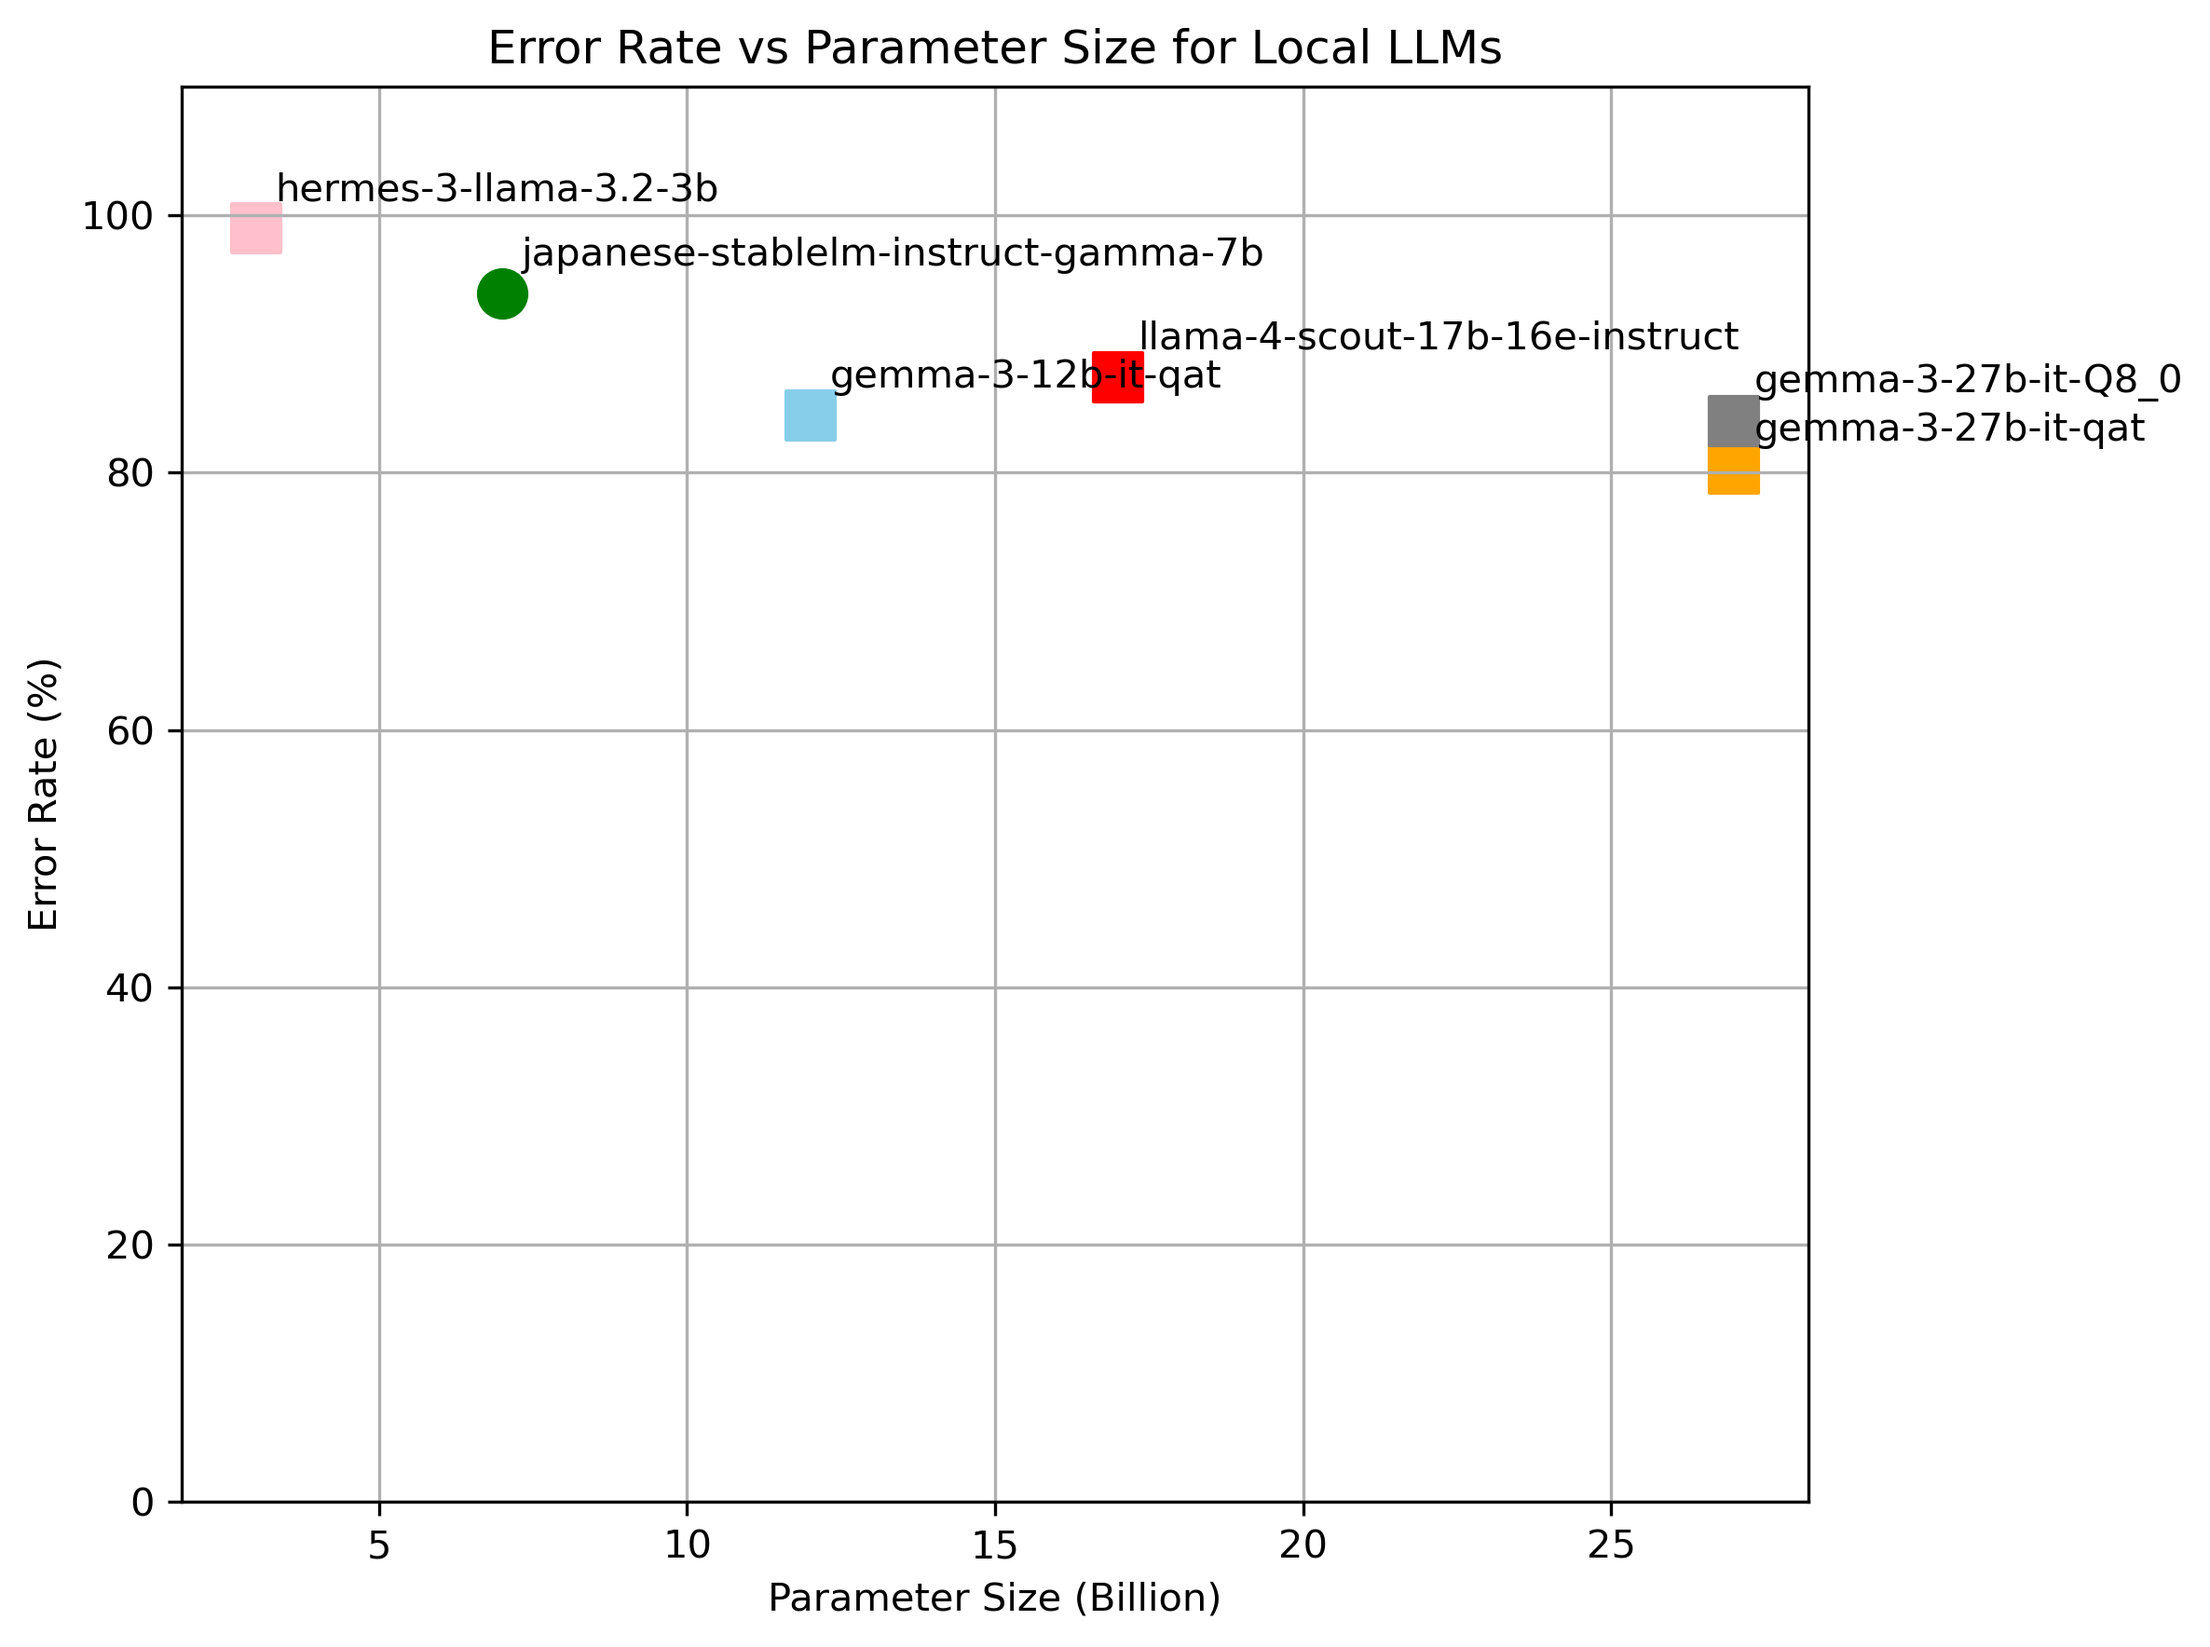
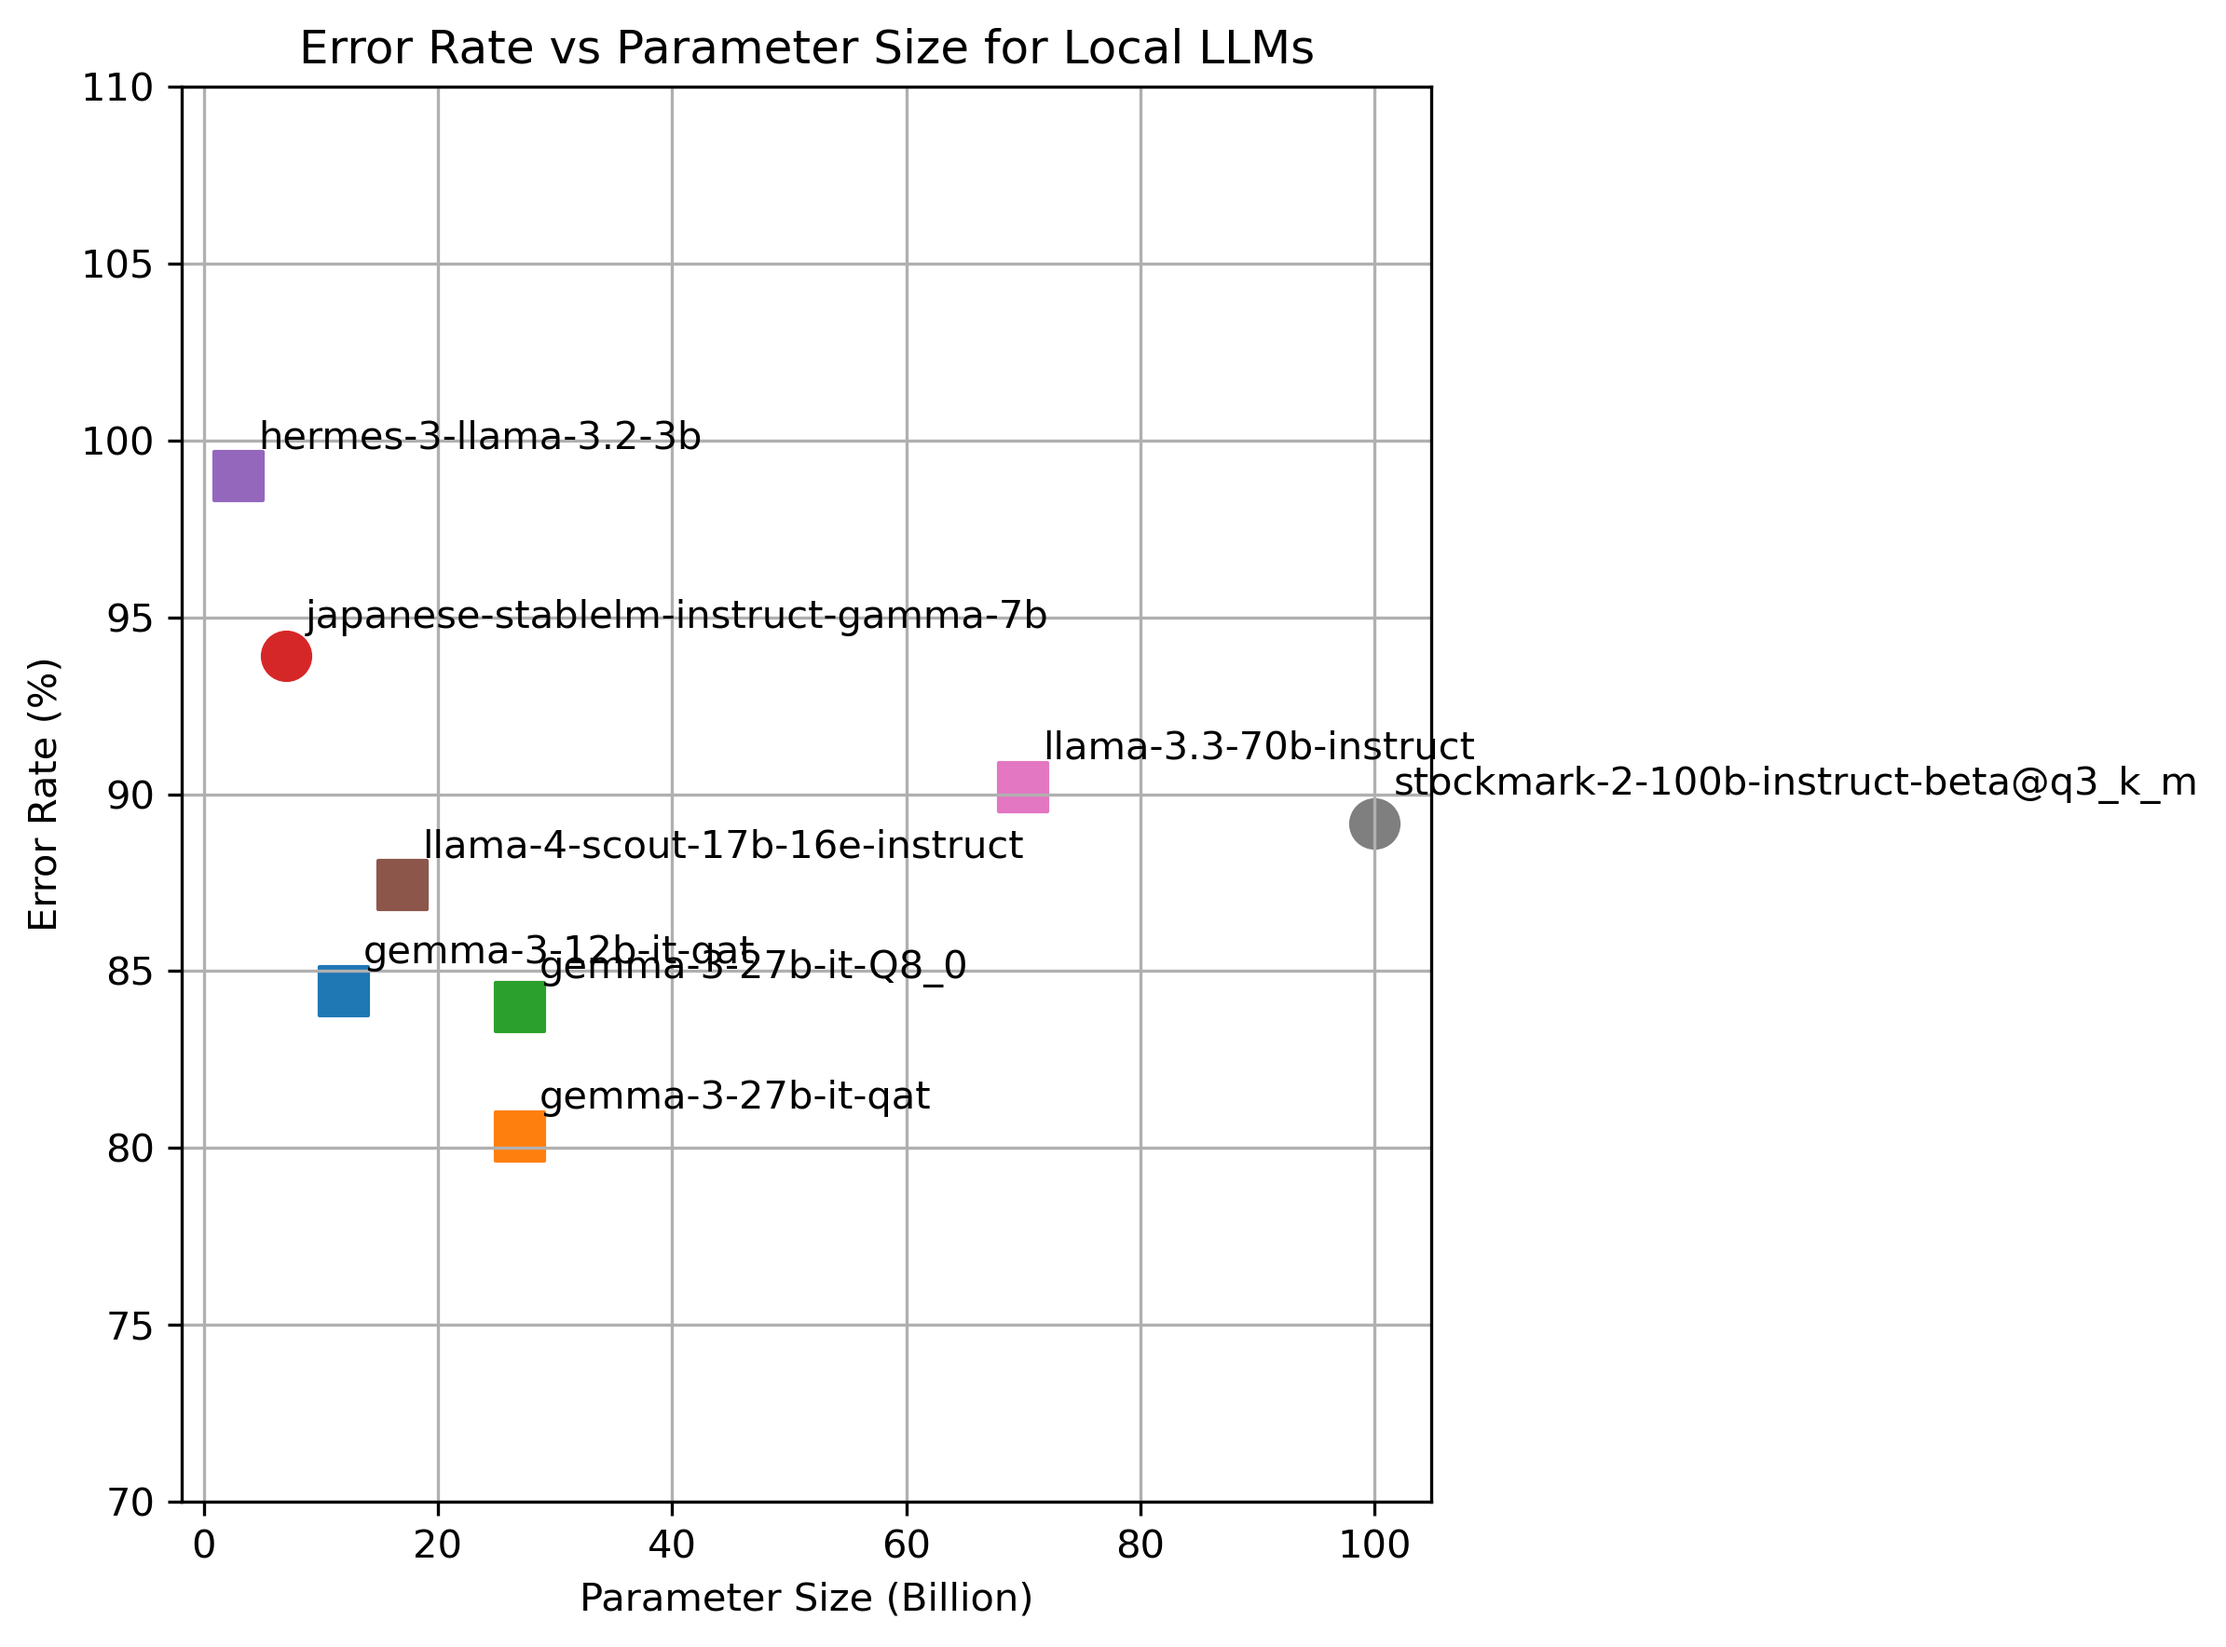
ローカルLLMの計測結果まとめを追記。

diff --git a/benchmark/plot_errorrate_vs_paramsize.py b/benchmark/plot_errorrate_vs_paramsize.py
@@ -19,6 +19,7 @@ modules = [
     'hermes-3-llama-3.2-3b',
     'llama-4-scout-17b-16e-instruct',
     'llama-3.3-70b-instruct',
+    'stockmark-2-100b-instruct-beta@q3_k_m'
 ]
 # エラー率 (mean CER)
 error_rates = [
@@ -29,6 +30,7 @@ error_rates = [
     0.989908,
     0.874311,
     0.902066,
+    0.891659,
 ]
 # パラメータ数 (ビリオン単位)
 param_sizes = [
@@ -39,6 +41,7 @@ param_sizes = [
     3,
     17,
     70,
+    100,
 ]
 markers = [
     's',
@@ -48,10 +51,20 @@ markers = [
     's',
     's',
     's',
+    'o',
 ]
 
 # カラー設定 (モデル数に合わせて調整)
-base_colors = ['skyblue', 'orange', 'gray', 'green', 'pink', 'red']
+base_colors = [
+    'tab:blue',    # 青
+    'tab:orange',  # オレンジ
+    'tab:green',   # 緑
+    'tab:red',     # 赤
+    'tab:purple',  # 紫
+    'tab:brown',   # 茶
+    'tab:pink',    # ピンク
+    'tab:gray',    # グレー
+]
 colors = base_colors[:len(modules)]
 
 plt.figure(figsize=(8, 6))
@@ -69,8 +82,8 @@ plt.xlabel('Parameter Size (Billion)')
 plt.ylabel('Error Rate (%)')
 plt.title('Error Rate vs Parameter Size for Local LLMs')
 plt.grid(True)
-# y 軸を 0%～110% の範囲に設定
-plt.ylim(0, 110)
+# y 軸を 70%～110% の範囲に設定
+plt.ylim(70, 110)
 plt.margins(x=0.05)
 plt.tight_layout()
 

diff --git a/benchmark/README.md b/benchmark/README.md
@@ -111,10 +111,17 @@ Sumibi のユーザビリティを左右する主要因として、以下の3つ
    ```bash
    make plots
    ```
-## ローカルLLMの実行環境
+# ローカルLLM
+ローカルLLMでもベンチマークを取得しました。ローカルで稼働できるモデルには費用面で限度があるため、Sumibiには適していないことが分かります。
+ローカルLLMは計算コストと変換性能のバランスが悪いため、Sumibiは各種ビッグテックのAPI経由で利用することが最も現実的です。
+100Bサイズのパラメータまで計測しましたが、パラメータサイズを大きくしても、変換精度向上はほとんど見られませんでした。
 
-- GPU-16GByte RAMに収まる場合、 g6.xlarge 使用 ( USD 1.3512 )
-- GPU 48GByte RAMに拡張したい場合、g6e.2xlarge 使用 ( USD 3.61968 )
+![plot3](../images/plot_errorrate_vs_paramsize_1000x600.png)
+
+# ローカルLLMの実行環境
+
+- GPU-16GByte RAMに収まる場合、 AWS g6.xlarge 使用 ( USD 1.3512 )
+- GPU 48GByte RAMに拡張したい場合、AWS g6e.2xlarge 使用 ( USD 3.61968 )
 
 ### 利用するEC2インスタンスタイプ
 
